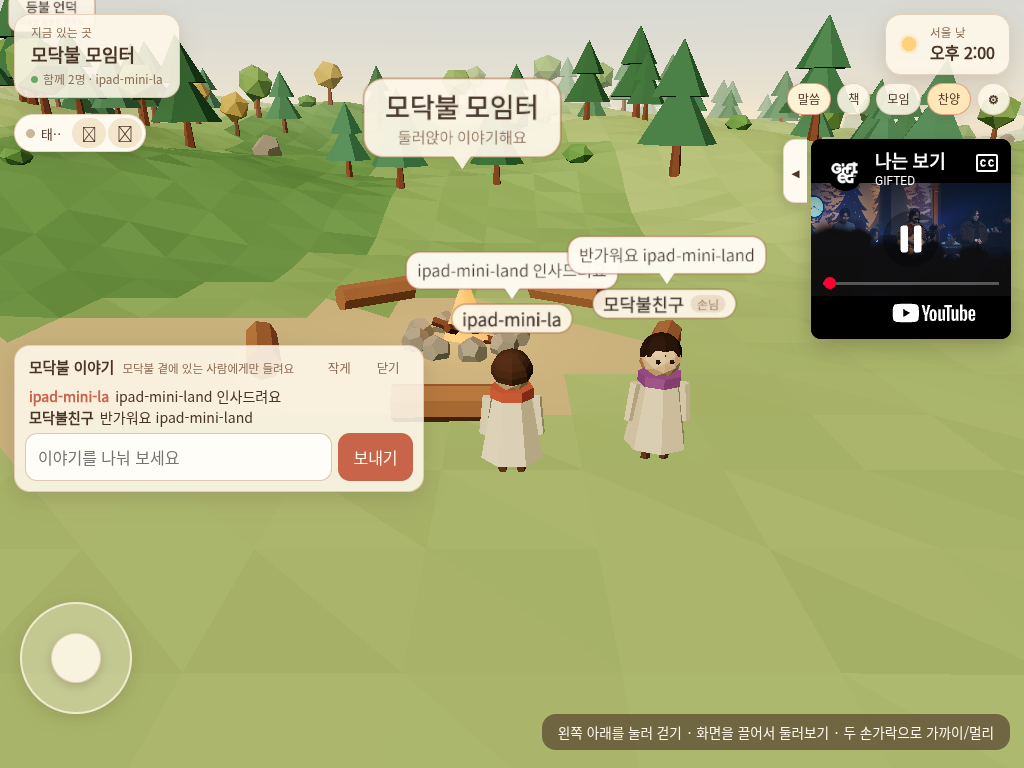
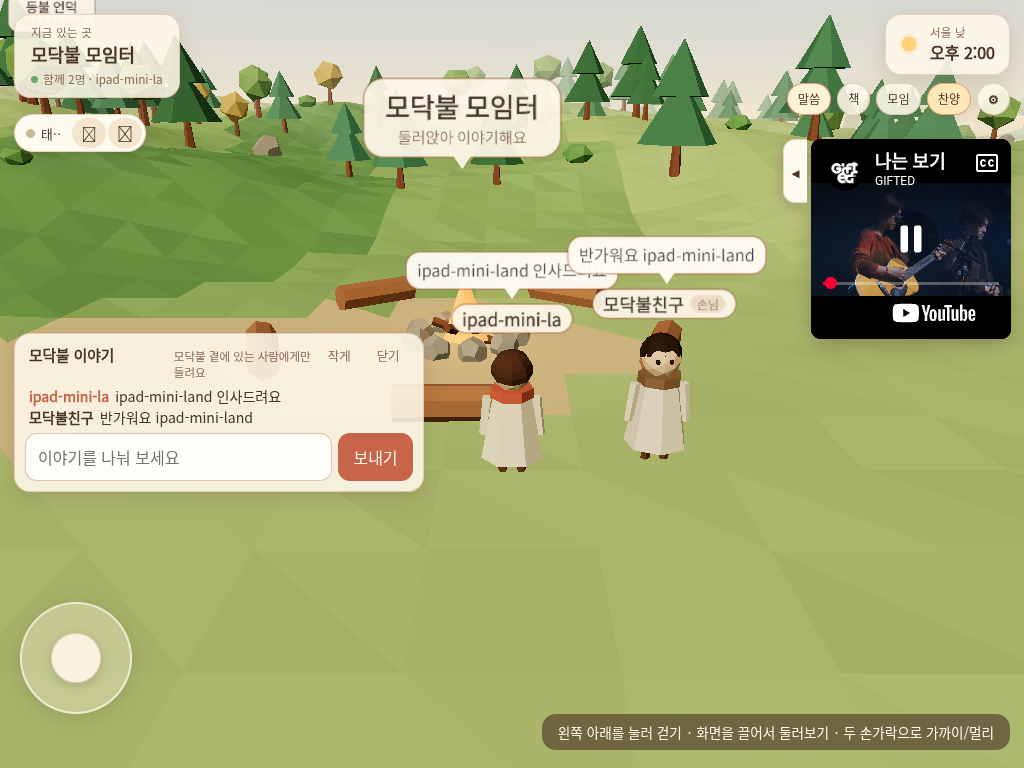
feat(chat): 작게/크게 toggle for the campfire chat on every device
Phones had no way to shrink the chat. 작게 keeps the header, the latest message
and the input, and is remembered. The campfire blurb card no longer shows
through the open chat on phones.

Claude-Session: https://claude.ai/code/session_01QsWPXXpkTAwZLNvoEFaFKZ

Changed region(s): [[0.7812, 0.2188, 1.0, 0.4062], [0.0, 0.4062, 0.4375, 0.5], [0.625, 0.4688, 0.6875, 0.5312]]

diff --git a/client/src/styles.css b/client/src/styles.css
@@ -3252,3 +3252,38 @@ body.touch.chatting.worship-mini:not(.tablet) #chat-log {
 .notify-time:disabled {
   opacity: 0.5;
 }
+
+
+/* =================== 모닥불 채팅 작게/크게 on every device =================== */
+/* Phones used to have no way to shrink the chat. 작게 keeps the header, the
+   latest line and the input; the choice is remembered. */
+.chat-head-btn {
+  display: inline-block;
+}
+
+.chat-head strong {
+  flex: 1;
+  text-align: left;
+}
+
+/* The long hint doesn't fit next to the buttons on phones. */
+body.touch:not(.tablet) .chat-head span {
+  display: none;
+}
+
+/* Collapsed: only the latest message stays (no half-clipped lines). */
+#chat.collapsed #chat-log,
+body.touch #chat.collapsed #chat-log,
+body.touch.tablet #chat.collapsed #chat-log {
+  max-height: none;
+  overflow: hidden;
+}
+
+#chat.collapsed #chat-log > li:not(:last-child) {
+  display: none;
+}
+
+/* The campfire blurb card sat behind the open chat on phones too. */
+body.touch.chat-open #prompt {
+  display: none;
+}

diff --git a/client/src/ui/ChatPanel.ts b/client/src/ui/ChatPanel.ts
@@ -1,6 +1,7 @@
 import { CHAT_MAX, textLength } from '../../../shared/protocol';
 
 const MAX_LOG = 40;
+const CHAT_COLLAPSED_KEY = 'worlds.chat.collapsed';
 
 /**
  * Campfire chat: visible only inside the campfire circle. All text goes in
@@ -47,10 +48,23 @@ export class ChatPanel {
       this.input.blur();
       this.setCollapsed(true);
     });
+    // Remember 작게/크게 across visits.
+    let saved = false;
+    try {
+      saved = localStorage.getItem(CHAT_COLLAPSED_KEY) === '1';
+    } catch {
+      /* ignore */
+    }
+    if (saved) this.setCollapsed(true);
   }
 
   setCollapsed(collapsed: boolean) {
     this.root.classList.toggle('collapsed', collapsed);
+    try {
+      localStorage.setItem(CHAT_COLLAPSED_KEY, collapsed ? '1' : '0');
+    } catch {
+      /* storage blocked: still works for this visit */
+    }
     const b = document.getElementById('chat-collapse');
     if (b) {
       b.textContent = collapsed ? '크게' : '작게';
